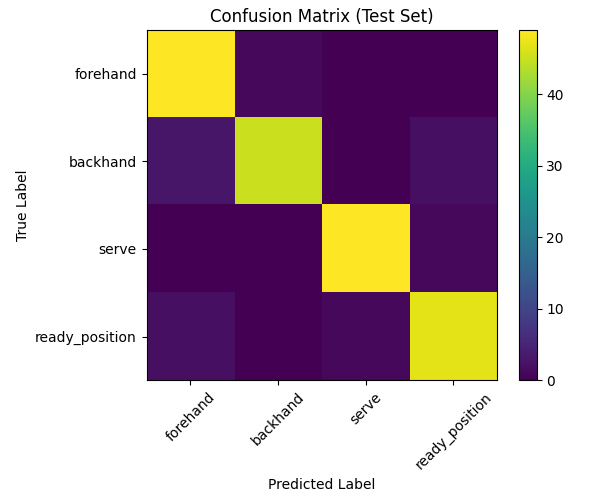
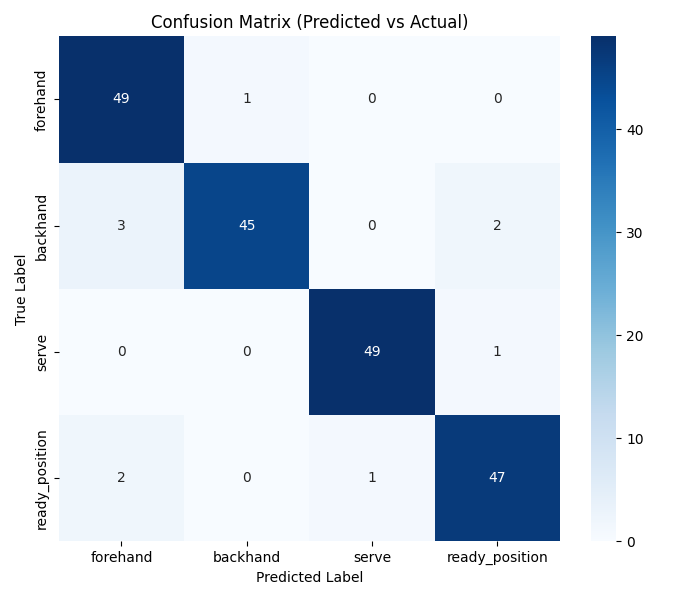
Finalized training and evaluation graphs

diff --git a/models/Comparison_Models/Kaggle_Model/train_timm.py b/models/Comparison_Models/Kaggle_Model/train_timm.py
@@ -8,6 +8,7 @@ from dataclasses import dataclass
 import torch
 import timm #pretrained image models.
 import torchmetrics
+import matplotlib.pyplot as plt
 from tqdm import tqdm
 
 
@@ -23,10 +24,10 @@ class TrainConfig:
     dev_mode: bool = False # if true only run a couple batches/epochs, for debugging.
 
 class TrainValidation:
-    def __init__(self, classes, tr_dl, val_dl, device, cfg: TrainConfig):
+    def __init__(self, classes, training_dataloader, validation_dataloader, device, cfg: TrainConfig):
         self.classes = classes
-        self.tr_dl = tr_dl
-        self.val_dl = val_dl
+        self.training_dataloader = training_dataloader
+        self.validation_dataloader = validation_dataloader
         self.device = device
         self.cfg = cfg
 
@@ -46,6 +47,14 @@ class TrainValidation:
         self.best_f1 = -1
         self.no_improve = 0
 
+        # stores train and validation losses after each epoch so we can graph them later.
+        self.training_losses = []
+        self.validation_losses = []
+
+        # stores train and validation accuracies after each epoch so we can graph them later.
+        self.training_accuracies = []
+        self.validation_accuracies = []
+
     # helper: move batch to device.
     def _move(self, batch):
         x, y = batch
@@ -61,7 +70,7 @@ class TrainValidation:
         correct = 0
 
         # loop through training batches with progress bar.
-        for i, batch in tqdm(enumerate(self.tr_dl), total=len(self.tr_dl), desc="Training"):
+        for i, batch in tqdm(enumerate(self.training_dataloader), total=len(self.training_dataloader), desc="Training"):
             if self.cfg.dev_mode and i >= 2:
                 break
 
@@ -83,7 +92,7 @@ class TrainValidation:
             self.f1.update(logits, y)
 
         # compute average loss and accuracy over all samples and final epoch F1.
-        n = len(self.tr_dl.dataset)
+        n = len(self.training_dataloader.dataset)
         return total_loss / n, correct / n, float(self.f1.compute().item())
 
     #no_grad() disables gradient tracking, eval() eval bahvior, reset F1 agian.
@@ -96,7 +105,7 @@ class TrainValidation:
         total_loss = 0.0
         correct = 0
 
-        for i, batch in tqdm(enumerate(self.val_dl), total=len(self.val_dl), desc="Validation"):
+        for i, batch in tqdm(enumerate(self.validation_dataloader), total=len(self.validation_dataloader), desc="Validation"):
             if self.cfg.dev_mode and i >= 2:
                 break
 
@@ -108,7 +117,7 @@ class TrainValidation:
             correct += (logits.argmax(1) == y).sum().item()
             self.f1.update(logits, y)
 
-        n = len(self.val_dl.dataset)
+        n = len(self.validation_dataloader.dataset)
         return total_loss / n, correct / n, float(self.f1.compute().item())
 
     # if validation F1 improves enough update best and reset early stop counter, save model weights to disk.
@@ -137,6 +146,13 @@ class TrainValidation:
             print(f"Train: loss={training_loss:.3f} acc={tr_acc:.3f} f1={tr_f1:.3f}")
             print(f"Val:   loss={validation_loss:.3f} acc={va_acc:.3f} f1={va_f1:.3f}")
 
+            # saves losses after each epoch so we can graph training vs validation loss.
+            self.training_losses.append(training_loss)
+            self.validation_losses.append(validation_loss)
+
+            # saves accuracies after each epoch so we can graph training vs validation accuracy.
+            self.training_accuracies.append(tr_acc)
+            self.validation_accuracies.append(va_acc)
 
             # save best checkpoint if improved, and stop training if val F1 hasn't improved for patience epochs.
             self.maybe_save(va_f1)
@@ -144,5 +160,58 @@ class TrainValidation:
             if self.no_improve >= self.cfg.patience:
                 print("Early stopping")
                 break
+
+        # makes sure output folder exists before saving graphs.
+        os.makedirs("training_outputs", exist_ok=True)
+
+        # x-axis values are the epoch numbers that actually ran.
+        epochs_ran = range(1, len(self.training_losses) + 1)
+
+        # creates training vs validation loss graph.
+        plt.figure(figsize=(7, 5))
+        plt.plot(epochs_ran, self.training_losses, marker="o", label="Training Loss")
+        plt.plot(epochs_ran, self.validation_losses, marker="o", label="Validation Loss")
+
+        # graph title, axis labels, and legend.
+        plt.title("Training vs Validation Loss")
+        plt.xlabel("Epoch")
+        plt.ylabel("Loss")
+        plt.legend()
+
+        # adds light grid lines to make graph easier to read.
+        plt.grid(True, linestyle="--", alpha=0.5)
+
+        # keeps layout cleaner.
+        plt.tight_layout()
+
+        # saves loss curve graph.
+        plt.savefig("training_outputs/loss_curve.png")
+        plt.close()
+
+        print("Loss curve saved to training_outputs/loss_curve.png")
+
+        # creates training vs validation accuracy graph.
+        plt.figure(figsize=(7, 5))
+        plt.plot(epochs_ran, self.training_accuracies, marker="o", label="Training Accuracy")
+        plt.plot(epochs_ran, self.validation_accuracies, marker="o", label="Validation Accuracy")
+
+        # graph title, axis labels, and legend.
+        plt.title("Training vs Validation Accuracy")
+        plt.xlabel("Epoch")
+        plt.ylabel("Accuracy")
+        plt.legend()
+
+        # adds light grid lines to make graph easier to read.
+        plt.grid(True, linestyle="--", alpha=0.5)
+
+        # keeps layout cleaner.
+        plt.tight_layout()
+
+        # saves accuracy curve graph.
+        plt.savefig("training_outputs/accuracy_curve.png")
+        plt.close()
+
+        print("Accuracy curve saved to training_outputs/accuracy_curve.png")
+
         # return trainer object.
         return self

diff --git a/models/Comparison_Models/Kaggle_Model/infer_eval.py b/models/Comparison_Models/Kaggle_Model/infer_eval.py
@@ -8,6 +8,7 @@ import timm
 import numpy as np
 import pandas as pd
 import matplotlib.pyplot as plt
+import seaborn as sns
 from tqdm import tqdm
 from sklearn.metrics import accuracy_score, f1_score, confusion_matrix, classification_report
 from torchvision import transforms as T
@@ -72,12 +73,16 @@ def main():
         T.Normalize(mean=mean, std=std),
     ])
 
-    # rebuild the same kind of split (stratified) and then evaluate test. 
-    tr_dl, val_dl, test_dl, class_map = TennisImageClassDataset.stratified_split_dls(
+    # rebuild the same stratified dataset split used during training
+    training_dataloader, validation_dataloader, test_dataloader, class_map = TennisImageClassDataset.stratified_split_dls(
         transformations=tfs,
         bs=bs,
-        ns=4,
+        num_workers=4,
     )
+
+    print("Train size:", len(training_dataloader.dataset))
+    print("Val size:", len(validation_dataloader.dataset))
+    print("Test size:", len(test_dataloader.dataset))
     
     # prints class-to-id mapping to verify label order
     print("Class Mapping:", class_map)
@@ -90,7 +95,7 @@ def main():
     model.to(device)
 
     # runs inference on test data loader
-    y_true, y_pred = run_inference(model, test_dl, device)
+    y_true, y_pred = run_inference(model, test_dataloader, device)
 
     # computes metrics: accuracy and macro F1
     # (macro F1 calcualtes unweighted averages of F1 scores for each class, treats all classes equally regardless of frequency.)
@@ -106,31 +111,84 @@ def main():
     inverse = {v: k for k, v in class_map.items()}
     names = [inverse[i] for i in range(len(inverse))]
 
-
     # print report and confusion matrix
     print("\nClassification Report:")
     print(classification_report(y_true, y_pred, target_names=names))
 
+    # builds confusion matrix using true labels and predicted labels.
     cm = confusion_matrix(y_true, y_pred)
 
+    # makes sure output folder exists before saving the graphs and csv.
     os.makedirs("evaluation_outputs", exist_ok=True)
 
-    plt.figure(figsize=(6, 5))
-    plt.imshow(cm)
-    plt.title("Confusion Matrix (Test)")
-    plt.xticks(range(len(names)), names, rotation=45)
-    plt.yticks(range(len(names)), names)
-    plt.xlabel("Pred")
-    plt.ylabel("True")
+    # creates a cleaner heatmap style confusion matrix.
+    # annot=True writes the counts in each square.
+    # fmt="d" makes the values show as integers.
+    plt.figure(figsize=(7, 6))
+    sns.heatmap(
+        cm,
+        annot=True,
+        fmt="d",
+        cmap="Blues",
+        xticklabels=names,
+        yticklabels=names
+    )
+
+    # titles and axis labels for confusion matrix graph.
+    plt.title("Confusion Matrix (Predicted vs Actual)")
+    plt.xlabel("Predicted Label")
+    plt.ylabel("True Label")
+
+    # makes spacing cleaner so labels do not overlap.
     plt.tight_layout()
+
+    # saves confusion matrix graph.
     plt.savefig("evaluation_outputs/confusion_matrix.png")
     plt.close()
 
+    print("Confusion matrix saved to evaluation_outputs/confusion_matrix.png")
+
+    # gets full classification report as a dictionary so we can grab class f1-scores.
+    report_dict = classification_report(y_true, y_pred, target_names=names, output_dict=True)
+
+    # collects per-class f1 scores in same order as class names.
+    per_class_f1 = [report_dict[class_name]["f1-score"] for class_name in names]
+
+    # creates bar chart for per-class f1 scores.
+    plt.figure(figsize=(7, 5))
+    plt.bar(names, per_class_f1)
+
+    # graph title and labels.
+    plt.title("Per-Class F1 Score")
+    plt.xlabel("Tennis Action Class")
+    plt.ylabel("F1 Score")
+
+    # f1 score ranges from 0 to 1, so keep y-axis in that range.
+    plt.ylim(0, 1.0)
+
+    # rotates x labels so they are easier to read.
+    plt.xticks(rotation=25)
+
+    # writes exact f1 score above each bar.
+    for i, score in enumerate(per_class_f1):
+        plt.text(i, score + 0.02, f"{score:.2f}", ha="center")
+
+    # makes layout cleaner.
+    plt.tight_layout()
+
+    # saves f1 bar chart.
+    plt.savefig("evaluation_outputs/per_class_f1_scores.png")
+    plt.close()
+
+    print("Per-class F1 chart saved to evaluation_outputs/per_class_f1_scores.png")
+
+    # saves predictions into csv file for later analysis if needed.
     df = pd.DataFrame({"true_label": y_true, "pred_label": y_pred})
     df.to_csv("evaluation_outputs/test_predictions.csv", index=False)
 
     print("Saved:")
     print("- evaluation_outputs/confusion_matrix.png")
+    print("- evaluation_outputs/per_class_f1_scores.png")
     print("- evaluation_outputs/test_predictions.csv")
 
 

diff --git a/models/Comparison_Models/Kaggle_Model/viz_eda.py b/models/Comparison_Models/Kaggle_Model/viz_eda.py
@@ -1,0 +1,53 @@
+import matplotlib.pyplot as plt
+import torch
+from torchvision import transforms as T
+
+from models.Comparison_Models.Kaggle_Model.dataset import TennisImageClassDataset
+
+def main():
+    mean, std = [0.485, 0.456, 0.406], [0.229, 0.224, 0.225]
+    im_size, bs = 160, 16
+
+    tfs = T.Compose([
+        T.Resize((im_size, im_size)),
+        T.ToTensor(),
+        T.Normalize(mean=mean, std=std),
+    ])
+
+    tr_dl, val_dl, ts_dl, classes = TennisImageClassDataset.stratified_split_dls(
+        transformations=tfs,
+        bs=bs,
+        ns=2,
+    )
+
+    inv = {v: k for k, v in classes.items()}
+    print("Class map:", classes)
+    print("Train size:", len(tr_dl.dataset))
+    print("Val size:", len(val_dl.dataset))
+    print("Test size:", len(ts_dl.dataset))
+
+    # show one batch
+    ims, gts = next(iter(tr_dl))
+    # unnormalize for display
+    ims_disp = ims.clone()
+    for c in range(3):
+        ims_disp[:, c] = ims_disp[:, c] * std[c] + mean[c]
+    ims_disp = torch.clamp(ims_disp, 0, 1)
+
+    n = min(12, ims_disp.size(0))
+    fig, axes = plt.subplots(3, 4, figsize=(10, 7))
+    axes = axes.flatten()
+
+    for i in range(n):
+        axes[i].imshow(ims_disp[i].permute(1, 2, 0))
+        axes[i].set_title(inv[int(gts[i])])
+        axes[i].axis("off")
+
+    for j in range(n, len(axes)):
+        axes[j].axis("off")
+
+    plt.tight_layout()
+    plt.show()
+
+if __name__ == "__main__":
+    main()

diff --git a/train/run_timm_baseline.py b/train/run_timm_baseline.py
@@ -39,7 +39,7 @@ def main():
     ])
 
     # preprocessing steps.
-    training_dataloader, validation_dataloader, ts_dl, classes = TennisImageClassDataset.stratified_split_dls(
+    training_dataloader, validation_dataloader, testset_dataloader, classes = TennisImageClassDataset.stratified_split_dls(
         transformations=tfs,
         dataset_id=dataset_id,
         bs=bs,
@@ -58,10 +58,7 @@ def main():
         lr=3e-4,
         save_dir="saved_models",
         save_prefix=f"tennis_timm_resnet18_{im_size}",
-        freeze_backbone=False,
-        dev_mode=False,
     )
-
     # creates trainer and start training, creates an instance of the trianing class.
     # passes in, class mapping, training Data loader, validation data loader, device, config settings.
     trainer = TrainValidation(classes=classes, training_dataloader=training_dataloader, validation_dataloader=validation_dataloader, device=device, cfg=config)

diff --git a/models/Comparison_Models/Kaggle_Model/dataset.py b/models/Comparison_Models/Kaggle_Model/dataset.py
@@ -156,7 +156,7 @@ class TennisImageClassDataset(Dataset):
         dataset_id: str = "orvile/tennis-player-actions-dataset",
         bs: int = 32,
         split=(0.8, 0.1, 0.1),
-        ns: int = 4,
+        num_workers: int = 4,
         seed: int = 2025,
     ):
         """
@@ -200,8 +200,8 @@ class TennisImageClassDataset(Dataset):
                       transformations=transformations, image_paths=test_X, image_labels=test_y, seed=seed)
 
         # lets dataloader load in parellel, keesp worder processes alive.
-        common = dict(num_workers=ns, persistent_workers=(ns > 0))
-        if ns > 0:
+        common = dict(num_workers=num_workers, persistent_workers=(num_workers > 0))
+        if num_workers > 0:
             common["prefetch_factor"] = 2
 
         # create dataloaders for train, val, and test
